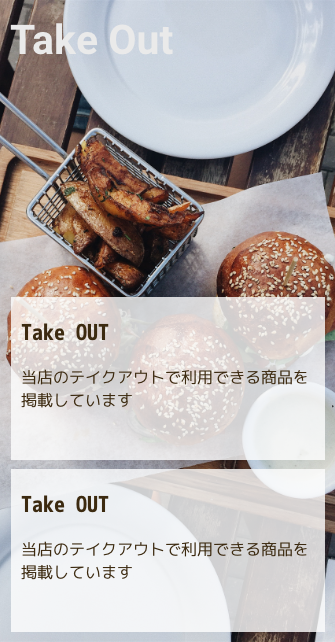
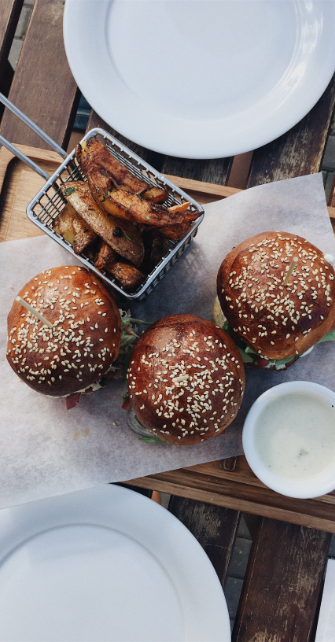
PCのヘッダー修正中

diff --git a/sass/style.min.css b/sass/style.min.css
@@ -1,2 +1,2 @@
-@media screen and (min-width: 1025px){.l-aside{grid-row:1/2;grid-column:2/3}}@media screen and (min-width: 1025px){.l-container{display:grid;grid-template-columns:1fr 19%;grid-template-rows:1fr 150px}}@media screen and (min-width: 1025px){.l-footer{grid-column:1/3;grid-row:2/3}}.l-header{height:217px;width:100%;background-color:#fff7ef}@media screen and (min-width: 1025px){.l-main{grid-row:1/2;grid-column:1/2}}.c-button{border-radius:10px;background-color:#f2ede9;color:#707070;border:solid 1px;border-color:#707070}.c-input{border-radius:10px;border:solid 1px}.p-form__input{margin-right:12px}.p-form{display:inline-block;position:relative}.p-form::before{content:"";width:24px;height:24px;background:url(../../../images/sp-seaech-icon.png) no-repeat center center/auto 100%;display:inline-block;position:absolute;left:16px;transform:translateY(-50%);top:50%}.p-form__input{width:230px;height:46px;padding:3px 0 3px 3em}.p-form__button{width:78px;height:46px;font-size:16px;font-weight:bold}.p-header__menu{position:absolute;top:14px;right:16px;border:0;background-color:transparent;font-size:20px;font-family:Roboto;color:#707070}.p-header__title{font-size:40px;font-family:Roboto;margin-bottom:38px}.p-header{display:flex;flex-flow:column;justify-content:center;align-items:center;margin:0 auto;position:relative}h1{color:#707070}
+@media screen and (min-width: 1025px){.l-aside{grid-row:1/2;grid-column:2/3}}@media screen and (min-width: 1025px){.l-container{display:grid;grid-template-columns:1fr 19%;grid-template-rows:1fr 150px}}@media screen and (min-width: 1025px){.l-footer{grid-column:1/3;grid-row:2/3}}.l-header{height:217px;width:100%;background-color:#fff7ef}@media screen and (min-width: 1025px){.l-header{position:relative}}@media screen and (min-width: 1025px){.l-main{grid-row:1/2;grid-column:1/2}}.c-button{border-radius:10px;background-color:#f2ede9;color:#707070;border:solid 1px;border-color:#707070}.c-input{border-radius:10px;border:solid 1px}.p-form__input{margin-right:12px}.p-form{display:inline-block;position:relative}.p-form::before{content:"";width:24px;height:24px;background:url(../../../images/sp-seaech-icon.png) no-repeat center center/auto 100%;display:inline-block;position:absolute;left:16px;transform:translateY(-50%);top:50%}.p-form__input{width:230px;height:46px;padding:3px 0 3px 3em}.p-form__button{width:78px;height:46px;font-size:16px;font-weight:bold}@media screen and (min-width: 1025px){.p-form{position:absolute;top:86px;right:398px}}.p-header__menu{position:absolute;top:14px;right:16px;border:0;background-color:transparent;font-size:20px;font-family:Roboto;color:#707070}@media screen and (min-width: 1025px){.p-header__menu{display:none}}.p-header__title{color:#707070;font-size:40px;font-family:Roboto;margin-bottom:38px}@media screen and (min-width: 1025px){.p-header__title{position:absolute;top:67px;left:65px}}.p-header{display:flex;flex-flow:column;justify-content:center;align-items:center;margin:0 auto;position:relative}@media screen and (min-width: 1025px){.p-header{flex-direction:row;margin:auto 0;margin-bottom:initial}}.p-mainvisual__title{color:#fff;font-size:36px;font-weight:bold;position:absolute;left:25px}.p-mainvisual{height:285px;background:url(../../../images/sp_mainvisual.png);background-size:cover;display:flex;align-items:center;position:relative}
 /*# sourceMappingURL=style.min.css.map */

diff --git a/sass/style.css b/sass/style.css
@@ -26,6 +26,11 @@
   width: 100%;
   background-color: #FFF7EF;
 }
+@media screen and (min-width: 1025px) {
+  .l-header {
+    position: relative;
+  }
+}
 
 @media screen and (min-width: 1025px) {
   .l-main {
@@ -87,6 +92,13 @@
   font-size: 16px;
   font-weight: bold;
 }
+@media screen and (min-width: 1025px) {
+  .p-form {
+    position: absolute;
+    top: 86px;
+    right: 398px;
+  }
+}
 
 .p-header__menu {
   position: absolute;
@@ -98,11 +110,24 @@
   font-family: Roboto;
   color: #707070;
 }
+@media screen and (min-width: 1025px) {
+  .p-header__menu {
+    display: none;
+  }
+}
 
 .p-header__title {
+  color: #707070;
   font-size: 40px;
   font-family: Roboto;
   margin-bottom: 38px;
+}
+@media screen and (min-width: 1025px) {
+  .p-header__title {
+    position: absolute;
+    top: 67px;
+    left: 65px;
+  }
 }
 
 .p-header {
@@ -113,9 +138,29 @@
   margin: 0 auto;
   position: relative;
 }
+@media screen and (min-width: 1025px) {
+  .p-header {
+    flex-direction: row;
+    margin: auto 0;
+    margin-bottom: initial;
+  }
+}
 
-h1 {
-  color: #707070;
+.p-mainvisual__title {
+  color: #ffffff;
+  font-size: 36px;
+  font-weight: bold;
+  position: absolute;
+  left: 25px;
+}
+
+.p-mainvisual {
+  height: 285px;
+  background: url(../../../images/sp_mainvisual.png);
+  background-size: cover;
+  display: flex;
+  align-items: center;
+  position: relative;
 }
 
 /**

diff --git a/sass/Object/Project/_form.scss b/sass/Object/Project/_form.scss
@@ -1,14 +1,10 @@
-.p-form {
-  // フォーム位置の調整
-  // position: absolute;
-  // top: 131px;
-  // right: 31px;
-  // left: 24px;
+@use "../../Foundation/mixin" as m;
 
-  // 虫眼鏡の配置
+.p-form {
+
+  // インプットタグの虫眼鏡の配置
   display: inline-block; /* なくても大丈夫だけど、念の為 */
   position: relative;    /* 基準値とする */
-
   &::before {
     content: "";           /* 疑似要素に必須 */
     width: 24px;           /* アイコンの横幅 */
@@ -23,17 +19,16 @@
     top: 50%;
   }
 
-  // インプットタグ
+  // フォームのインプットタグ
   &__input {
     // 高さと幅
     width: 230px;
     height: 46px;
-
-    // 虫眼鏡のための余白
+    // 虫眼鏡のための左の余白
     padding: 3px 0 3px 3em; /* アイコンを設置するため左の余白を多めに指定*/
   }
 
-  // ボタンタグ
+  // フォールのボタンタグ
   &__button {
     // 高さと幅
     width: 78px;
@@ -41,6 +36,12 @@
     // フォント
     font-size: 16px;
     font-weight: bold;
+  }
+
+  @include m.pc {
+    position: absolute;
+    top: 86px;
+    right: 398px;
   }
 
 }

diff --git a/sass/Object/Project/_mainvisual.scss b/sass/Object/Project/_mainvisual.scss
@@ -1,5 +1,18 @@
-@use "../../Foundation/variable";
+@use "../../Foundation/variable" as v;
 
-h1 {
-  color: variable.$mainColor;
+// h1 {
+//   color: variable.$mainColor;
+// }
+
+.p-mainvisual {
+  // 画像を配置
+  height: 285px;
+  background: url(../../../images/sp_mainvisual.png);
+  background-size: cover;
+
+  // フォントを中央縦揃え（親要素）
+  display: flex;
+  align-items: center;
+  position: relative;
 }
+

diff --git a/sass/Layout/_header.scss b/sass/Layout/_header.scss
@@ -1,7 +1,17 @@
-@use "../Foundation/variable";
+@use "../Foundation/mixin" as m;
+@use "../Foundation/variable" as v;
 
 .l-header {
   height: 217px;
   width: 100%;
-  background-color: variable.$header-bg-color;
+  background-color: v.$header-bg-color;
+
+  // @include m.tb {
+
+  // }
+
+  @include m.pc {
+    // タイトルとフォームの配置を左右に配置（親要素）
+    position: relative;
+  }
 }

diff --git a/sass/Layout/_container.scss b/sass/Layout/_container.scss
@@ -6,4 +6,14 @@
     grid-template-columns: 1fr 19%;
     grid-template-rows: 1fr 150px;
   }
+
+  // @include mixin.tb {
+  //   // asideクラスを非表示にするため
+  //   position: relative;
+  // }
+
+  // @include mixin.sp {
+  //   // asideクラスを非表示にするため
+  //   // position: relative;
+  // }
 }

diff --git a/sass/Object/Project/_header__title.scss b/sass/Object/Project/_header__title.scss
@@ -1,7 +1,17 @@
+@use "../../Foundation/mixin" as m;
+@use "../../Foundation/variable" as v;
+
 .p-header__title {
   // フォント
+  color: v.$mainColor;
   font-size: 40px;
   font-family: Roboto;
   // 下の余白
   margin-bottom: 38px;
+
+  @include m.pc {
+    position: absolute;
+    top: 67px;
+    left: 65px;
+  }
 }

diff --git a/sass/Object/Project/_header.scss b/sass/Object/Project/_header.scss
@@ -1,3 +1,5 @@
+@use "../../Foundation/mixin" as m;
+
 .p-header {
   // ヘッダーを縦並び
   display: flex;
@@ -11,5 +13,11 @@
   
   // ヘッダーの余白調整
   
+  @include m.pc {
+    flex-direction: row;
+    // justify-content: space-around;
+    margin: auto 0;
+    margin-bottom: initial;
+  }
 
 }

diff --git a/sass/Foundation/_mixin.scss b/sass/Foundation/_mixin.scss
@@ -1,8 +1,14 @@
-// ブレークポイント
+// 【★ブレークポイント★】
 
-// $sp:
+// $sp:375px;
 $tb:600px;
 $pc:1025px;
+
+// @mixin sp {
+//   @media screen and (min-width: ($sp)) {
+//     @content;
+//   }
+// }
 
 @mixin tb {
   @media screen and (min-width: ($tb)) {

diff --git a/sass/Object/Project/_mainvisual__title.scss b/sass/Object/Project/_mainvisual__title.scss
@@ -1,0 +1,12 @@
+@use "../../Foundation/variable" as v;
+
+.p-mainvisual__title {
+  // フォント
+  color: v.$whiteFont;
+  font-size: 36px;
+  font-weight: bold;
+
+  // フォントを中央縦揃え（子要素）
+  position: absolute;
+  left: 25px;
+}

diff --git a/sass/Layout/_aside.scss b/sass/Layout/_aside.scss
@@ -5,5 +5,15 @@
     grid-row: 1/2;
     grid-column: 2/3;
   }
+
+  // @include mixin.tb {
+  //   // position: absolute;
+  //   // right: -600px;
+  // }
+
+  // @include mixin.sp {
+  //   position: absolute;
+  //   right: -375px;
+  // }
   
 }

diff --git a/sass/Object/Project/_header__menu.scss b/sass/Object/Project/_header__menu.scss
@@ -1,3 +1,5 @@
+@use "../../Foundation/mixin" as m;
+
 .p-header__menu {
   // 位置を調整
   position: absolute;
@@ -9,4 +11,8 @@
   font-size: 20px;
   font-family: Roboto;
   color: #707070;
+
+  @include m.pc {
+    display: none;
+  }
 }
